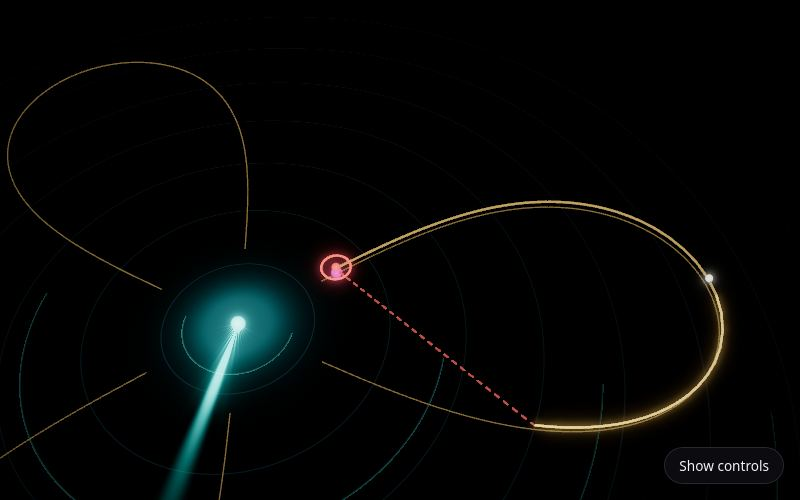
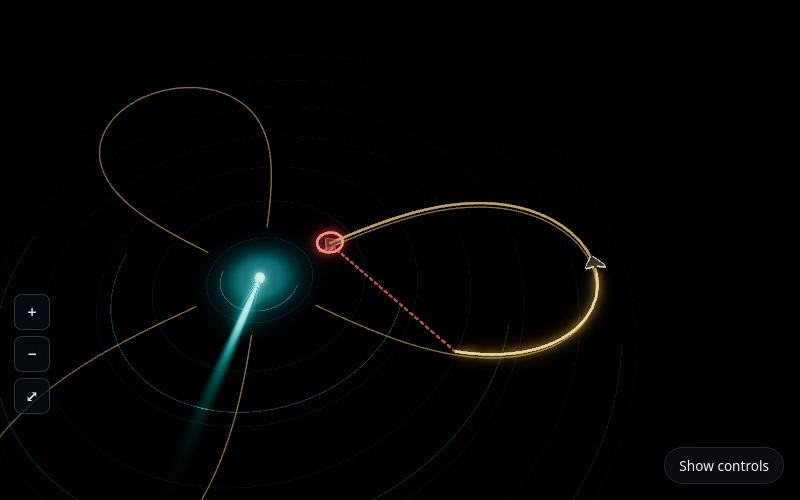
Radar Shadow: 3D delta-wing drones, whole-path framing, zoom buttons and slider

diff --git a/src/sketches/radarShadow.js b/src/sketches/radarShadow.js
@@ -149,6 +149,59 @@ const COL = {
   sight: new THREE.Color(0.5, 0.9, 1.4),
 };
 const W3 = (p, h = 0.02) => new THREE.Vector3(p.x, h, -p.y);   // plane (x, y) → world (x, h, −y)
+const ALT = 0.3;                                                 // drawn flight height, km
+
+// A delta-wing loitering munition (2.5 m span in life), drawn about 200× life size so it reads at this
+// scale: fuselage, delta wing with winglets, pusher propeller, and navigation lights (red on the left
+// wingtip, green on the right, a white strobe on the tail). Forward is +x.
+function buildDrone(tint, ghost) {
+  const g = new THREE.Group();
+  const body = new THREE.MeshStandardMaterial({
+    color: ghost ? 0x401010 : 0x1b1f24, roughness: 0.55, metalness: 0.35,
+    emissive: tint, emissiveIntensity: ghost ? 0.35 : 0.08, transparent: ghost, opacity: ghost ? 0.55 : 1,
+  });
+  const fus = new THREE.Mesh(new THREE.CylinderGeometry(0.026, 0.04, 0.42, 16).rotateZ(-Math.PI / 2), body);
+  const nose = new THREE.Mesh(new THREE.SphereGeometry(0.026, 16, 10), body);
+  nose.position.x = 0.21;
+  const shape = new THREE.Shape();
+  shape.moveTo(0.2, 0); shape.lineTo(-0.17, 0.27); shape.lineTo(-0.23, 0.27); shape.lineTo(-0.17, 0);
+  shape.lineTo(-0.23, -0.27); shape.lineTo(-0.17, -0.27); shape.lineTo(0.2, 0);
+  const wingGeo = new THREE.ExtrudeGeometry(shape, { depth: 0.012, bevelEnabled: false }).translate(0, 0, -0.006).rotateX(Math.PI / 2);
+  g.add(fus, nose, new THREE.Mesh(wingGeo, body));
+  for (const z of [-0.27, 0.27]) {
+    const fin = new THREE.Mesh(new THREE.BoxGeometry(0.07, 0.07, 0.008), body);
+    fin.position.set(-0.2, 0.03, z);
+    g.add(fin);
+  }
+  // a glowing outline, so the shape blooms against the dark field
+  g.add(new THREE.LineSegments(new THREE.EdgesGeometry(wingGeo, 20), new THREE.LineBasicMaterial({ color: tint.clone().multiplyScalar(ghost ? 1.2 : 1.6), transparent: true, opacity: ghost ? 0.6 : 0.9 })));
+  const prop = new THREE.Group();
+  for (let i = 0; i < 2; i++) {
+    const b = new THREE.Mesh(new THREE.BoxGeometry(0.006, 0.11, 0.012), body);
+    b.rotation.x = (i * Math.PI) / 2;
+    prop.add(b);
+  }
+  prop.position.x = -0.225;
+  const disc = new THREE.Mesh(new THREE.CircleGeometry(0.06, 24).rotateY(Math.PI / 2), new THREE.MeshBasicMaterial({ color: tint, transparent: true, opacity: 0.12, depthWrite: false }));
+  disc.position.x = -0.226;
+  g.add(prop, disc);
+  const light = (c, x, z) => {
+    const s = new THREE.Mesh(new THREE.SphereGeometry(0.014, 10, 8), new THREE.MeshBasicMaterial({ color: c }));
+    s.position.set(x, 0.01, z);
+    g.add(s);
+    return s;
+  };
+  const lights = { red: light(new THREE.Color(4, 0.3, 0.2), -0.2, -0.27), green: light(new THREE.Color(0.3, 4, 0.6), -0.2, 0.27), strobe: light(new THREE.Color(6, 6, 6), -0.22, 0) };
+  g.userData = { prop, lights };
+  g.scale.setScalar(1.4);
+  g.visible = false;
+  return g;
+}
+// heading of a path (plane angle) at arc length d
+function headingAt(path, d) {
+  const a = at(path, d - 0.02), b = at(path, d + 0.02);
+  return Math.atan2(b.y - a.y, b.x - a.x);
+}
 
 export default {
   name: 'Radar Shadow',
@@ -196,7 +249,7 @@ export default {
       ? `J_{\\text{curve}} = ${hl(m.Jc * 1000, 2)},\\ J_{\\text{straight}} = ${hl(m.Jl * 1000, 2)}\\ \\ (\\times 10^{-3}\\,\\text{km}^{-3}) \\\\ & P_d = \\tfrac12\\operatorname{erfc}\\!\\big(\\sqrt{-\\ln P_{fa}} - \\sqrt{S+\\tfrac12}\\big) = ${hl(m.Pc, 2)}\\ \\text{curved},\\ ${hl(m.Pl, 2)}\\ \\text{straight}`
       : `\\text{AF}(\\theta) = \\frac{\\sin(N\\psi/2)}{N\\sin(\\psi/2)},\\ \\ \\psi = \\pi\\sin(\\theta - \\theta_b),\\ \\ \\text{echo} \\propto \\text{AF}^4/r^4`;
     const line = beat(m.lt, [
-      [0, 'Searching. The camera needs about one pixel pair across the target.'],
+      [0, 'Searching. The camera needs about one pixel pair across the target. (Drones drawn about 200× life size.)'],
       [T_FIND - 1.2, 'Target. Now: how to get there without being seen?'],
       [T_FIND + 0.5, 'The best path depends on how fast the sensor fades with distance.'],
       [T_PLAN, 'Flying the radar geodesic. The red ghost goes straight.'],
@@ -209,15 +262,58 @@ export default {
   params: {
     speed: { value: 1, min: 0, max: 3 },
     glow: { value: 1, min: 0, max: 2 },
+    zoom: { value: 1, min: 0.4, max: 3 },
   },
 
   setup(ctx) {
     const { scene } = ctx;
     scene.background = new THREE.Color(0x02050a);
     const glow = createGlow(ctx, { fov: 40, strength: 0.85, threshold: 0.75, exposure: 1.0, vignette: 0.55 });
-    ctx.camera.position.set(4.5, 15.5, 9.5);
-    ctx.controls?.target.set(4.2, 0, -2.6);
+    // Frame the whole curve (it reaches 13 km out) with room to spare.
+    const home = new THREE.Vector3(5.2, 0, -1.8);
+    const viewDir = new THREE.Vector3(0.05, 0.78, 0.62).normalize();
+    const baseDist = 27;
+    ctx.camera.position.copy(home).addScaledVector(viewDir, baseDist / ctx.params.zoom);
+    ctx.controls?.target.copy(home);
     ctx.controls?.update();
+    scene.add(new THREE.HemisphereLight(0x9fc4d8, 0x05080c, 0.9));
+    const key = new THREE.DirectionalLight(0xfff1dc, 1.6);
+    key.position.set(4, 10, 3);
+    scene.add(key);
+    const drone = buildDrone(new THREE.Color(1.0, 0.85, 0.55), false);
+    const ghost = buildDrone(new THREE.Color(1.0, 0.25, 0.2), true);
+    scene.add(drone, ghost);
+
+    // On-screen zoom: + / − / fit. (Ctrl + scroll and a pinch zoom too.)
+    const zoomTo = (z) => {
+      if (!ctx.controls) return;
+      const off = ctx.camera.position.clone().sub(ctx.controls.target).normalize();
+      ctx.camera.position.copy(ctx.controls.target).addScaledVector(off, baseDist / z);
+      ctx.controls.update();
+    };
+    const distNow = () => (ctx.controls ? ctx.camera.position.distanceTo(ctx.controls.target) : baseDist);
+    const ui = document.createElement('div');
+    ui.style.cssText = 'position:absolute;left:14px;bottom:86px;display:flex;flex-direction:column;gap:6px;z-index:5;';
+    const button = (label, title, fn) => {
+      const b = document.createElement('button');
+      b.textContent = label;
+      b.title = title;
+      b.setAttribute('aria-label', title);
+      b.style.cssText = 'width:36px;height:36px;border-radius:8px;border:1px solid rgba(255,255,255,0.18);background:rgba(8,14,20,0.72);color:#d8e6ea;font:600 16px system-ui;cursor:pointer;';
+      b.addEventListener('click', (e) => { e.stopPropagation(); fn(); });
+      ui.appendChild(b);
+    };
+    button('+', 'Zoom in', () => zoomTo((baseDist / distNow()) * 1.35));
+    button('−', 'Zoom out', () => zoomTo(baseDist / distNow() / 1.35));
+    button('⤢', 'Show the whole path', () => {
+      if (!ctx.controls) return;
+      ctx.controls.target.copy(home);
+      ctx.camera.position.copy(home).addScaledVector(viewDir, baseDist / ctx.params.zoom);
+      ctx.controls.update();
+    });
+    const host = ctx.renderer.domElement.parentElement || document.body;
+    if (getComputedStyle(host).position === 'static') host.style.position = 'relative';
+    host.appendChild(ui);
 
     // The radar field: two-way array pattern over 1/r⁴, plus the outgoing pulse rings.
     const field = new THREE.Mesh(
@@ -259,7 +355,7 @@ export default {
     const thin = createFatLines({ maxSegments: 2400, width: 1.2 });
     const dots = createDots({ maxPoints: 64 });
     scene.add(lines.object, thin.object, dots.object);
-    return { glow, field, lines, thin, dots, trail: [], ghostTrail: [], c: new THREE.Color() };
+    return { glow, field, lines, thin, dots, drone, ghost, ui, zoomTo, lastZoom: ctx.params.zoom, c: new THREE.Color() };
   },
 
   update(ctx, state) {
@@ -273,7 +369,19 @@ export default {
     field.material.uniforms.uGain.value = g;
     field.material.uniforms.uFade.value = m.fade;
     state.glow.strength = 0.85 * g;
+    if (ctx.params.zoom !== state.lastZoom) { state.lastZoom = ctx.params.zoom; state.zoomTo(ctx.params.zoom); }
     const fade = m.fade;
+    // Place a drone model: on the plane at flight height, nose along its heading, prop spinning, lights blinking.
+    const place = (model, p, heading) => {
+      model.visible = fade > 0.02;
+      model.position.copy(W3(p, ALT));
+      model.rotation.set(0, heading, 0);
+      const u = model.userData;
+      u.prop.rotation.x += 1.4;
+      u.lights.strobe.visible = ctx.time % 1.1 < 0.06 || (ctx.time + 0.18) % 1.1 < 0.06;
+    };
+    state.drone.visible = false;
+    state.ghost.visible = false;
     const k = (col, s = 1) => c.copy(col).multiplyScalar(s * fade);
 
     lines.reset(); thin.reset(); dots.reset();
@@ -300,9 +408,9 @@ export default {
     if (m.phase === 'find') {
       // drone inbound; the camera's line of sight brightens with P
       const d = m.inbound;
-      dots.push(W3(d, 0.3), k(COL.drone), 0.11);
-      lines.push(W3(d, 0.3), W3(PB, 0.05), k(COL.sight, 0.15 + 0.8 * m.Pj));
-      thin.push(W3(INB, 0.3), W3(d, 0.3), k(COL.drone, 0.25));
+      place(state.drone, d, Math.atan2(PA.y - INB.y, PA.x - INB.x));
+      lines.push(W3(d, ALT), W3(PB, 0.05), k(COL.sight, 0.15 + 0.8 * m.Pj));
+      thin.push(W3(INB, ALT), W3(d, ALT), k(COL.drone, 0.25));
     } else {
       // straight line (red, faint) and the geodesic for the current sensor exponent
       for (let i = 1; i < LINE.pts.length; i += 2) {
@@ -318,18 +426,20 @@ export default {
       }
       if (m.phase !== 'plan') {
         // the two drones; the straight one is a ghost and flashes when the radar's odds of seeing it pass ½
-        dots.push(W3(m.cur, 0.3), k(COL.drone), 0.12);
+        place(state.drone, m.cur, headingAt(CURVE, m.fly * CURVE.L));
+        place(state.ghost, m.lin, Math.atan2(PB.y - PA.y, PB.x - PA.x));
         const seen = m.Pl > 0.5;
-        dots.push(W3(m.lin, 0.3), k(COL.line, seen ? 1.4 + 0.6 * Math.sin(ctx.time * 14) : 0.8), seen ? 0.14 : 0.1);
         if (seen) {
-          const p = W3(m.lin, 0.3), r = 0.35 + 0.1 * Math.sin(ctx.time * 8);
+          const p = W3(m.lin, ALT), r = 0.45 + 0.1 * Math.sin(ctx.time * 8);
           for (let a = 0; a < 24; a++) {
             const a0 = (a / 24) * Math.PI * 2, a1 = ((a + 1) / 24) * Math.PI * 2;
             lines.push(new THREE.Vector3(p.x + r * Math.cos(a0), p.y, p.z + r * Math.sin(a0)), new THREE.Vector3(p.x + r * Math.cos(a1), p.y, p.z + r * Math.sin(a1)), k(COL.line, 1.2));
           }
         }
       } else {
-        dots.push(W3(PA, 0.3), k(COL.drone), 0.11);
+        // waiting at A, its nose turning to follow the path being planned
+        const pl = geodesic(m.n, 60);
+        place(state.drone, PA, Math.atan2(pl[2].y - pl[0].y, pl[2].x - pl[0].x));
       }
     }
     lines.commit(); thin.commit(); dots.commit();
@@ -338,6 +448,8 @@ export default {
   dispose(ctx, state) {
     state.glow.dispose();
     state.lines.dispose(); state.thin.dispose(); state.dots.dispose();
+    state.ui.remove();
+    for (const model of [state.drone, state.ghost]) model.traverse((o) => { o.geometry?.dispose(); o.material?.dispose(); });
     state.field.geometry.dispose(); state.field.material.dispose();
   },
 };
